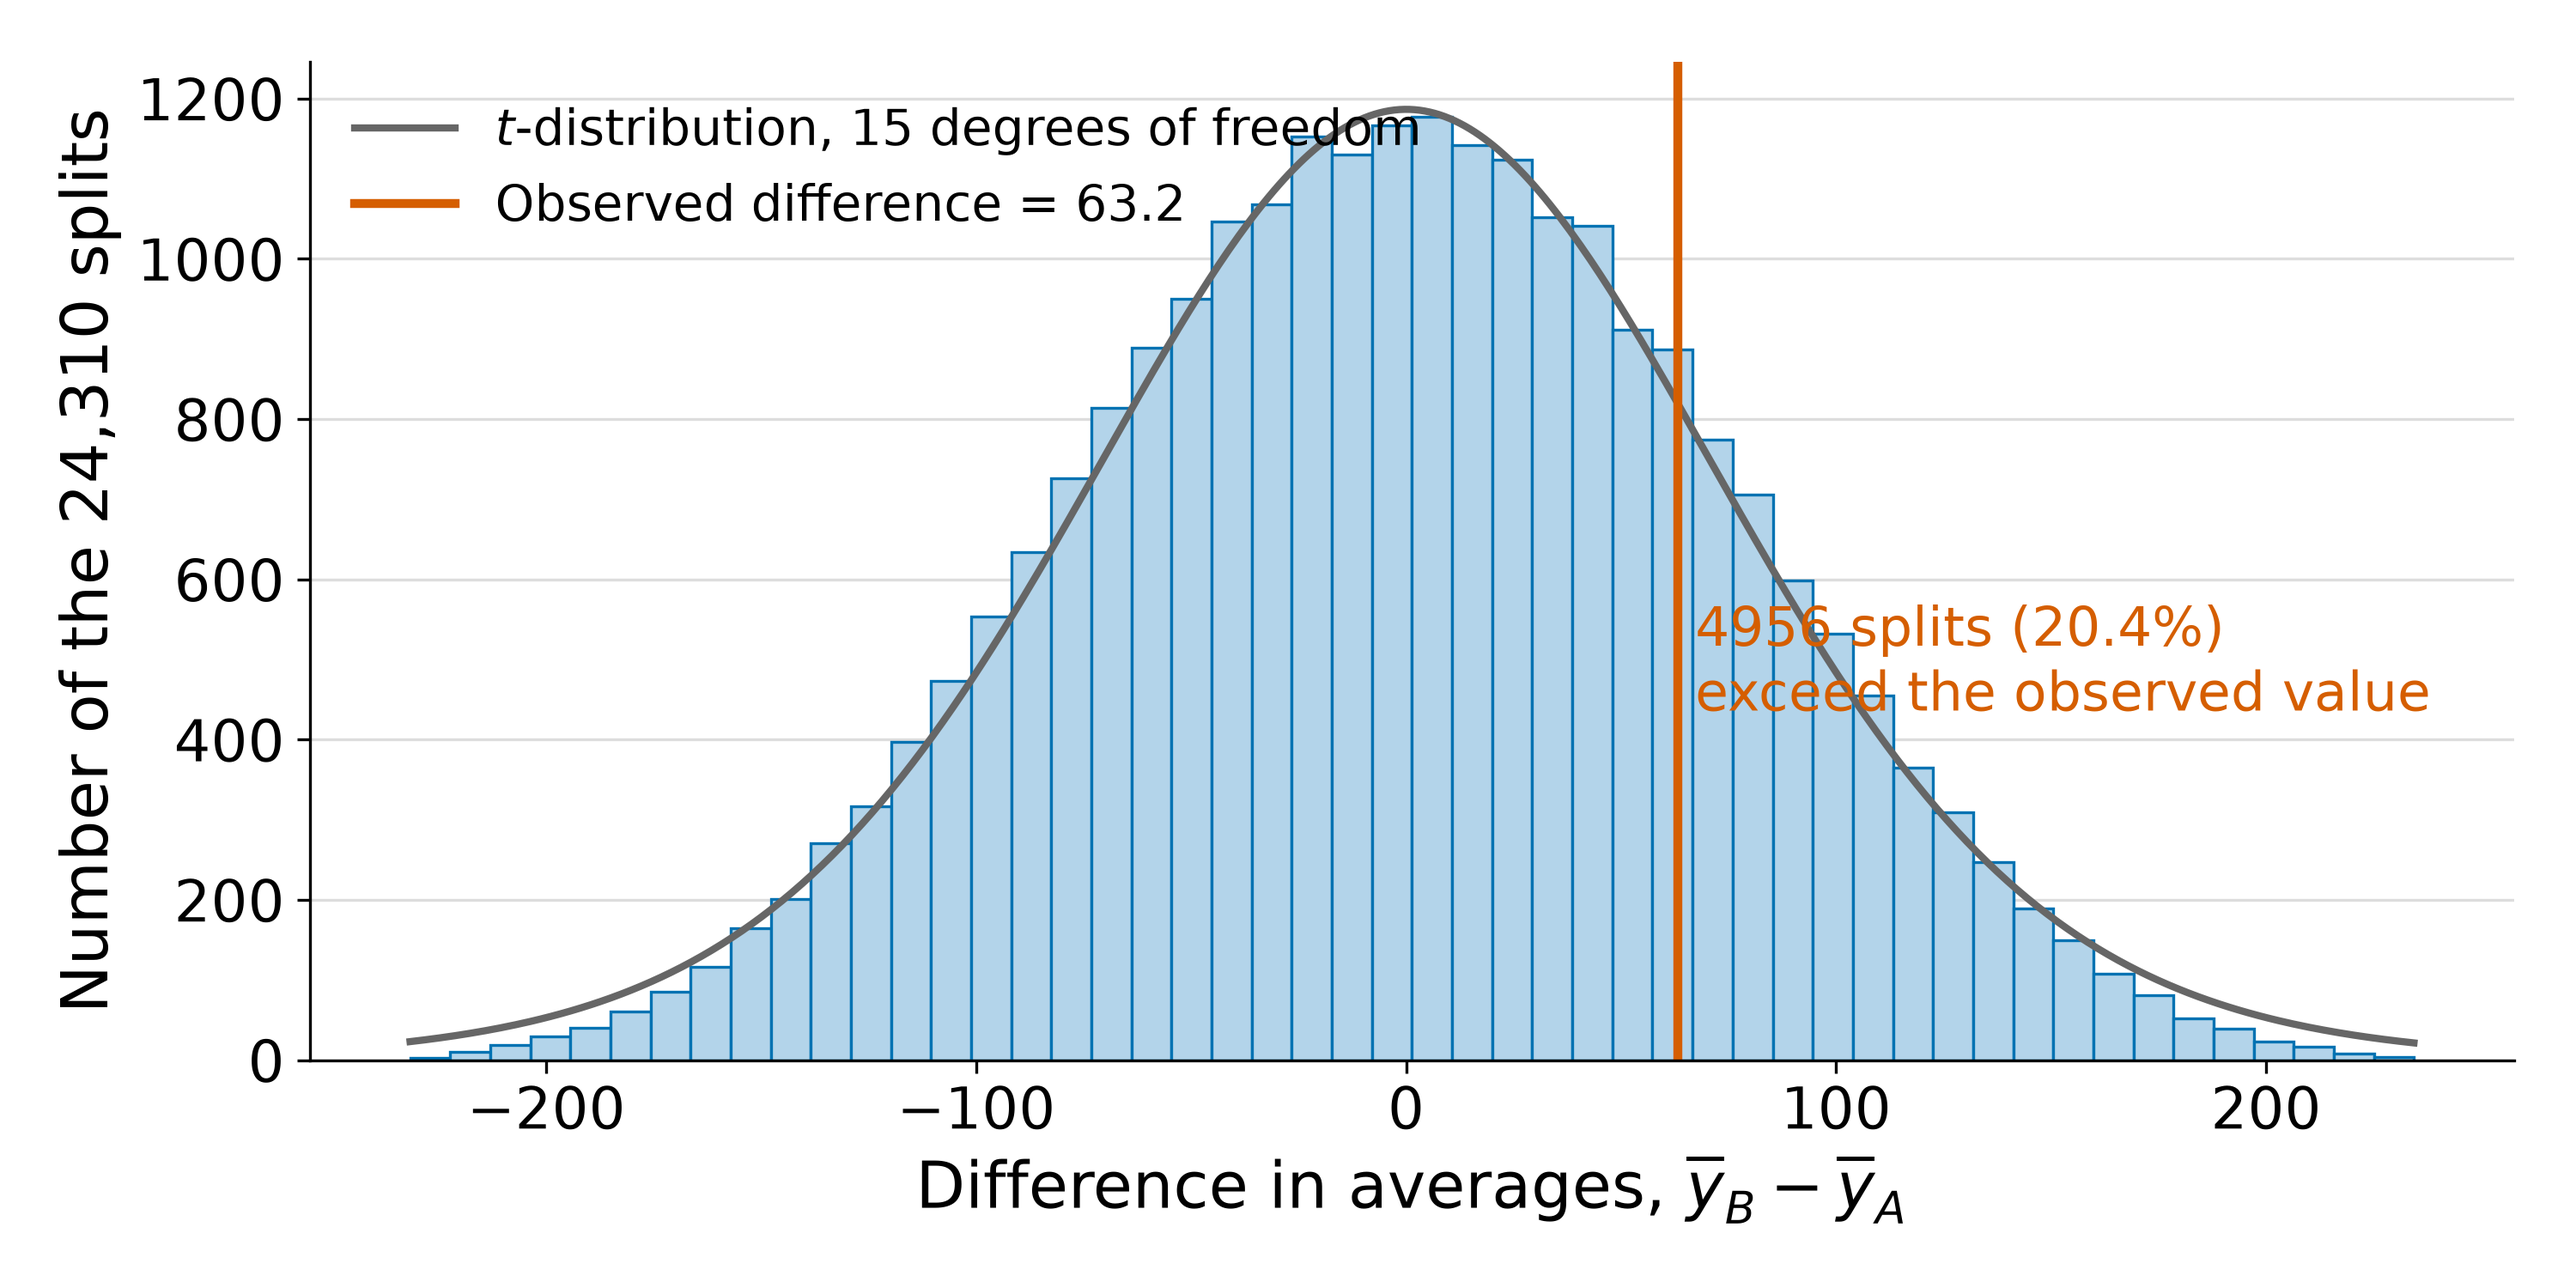
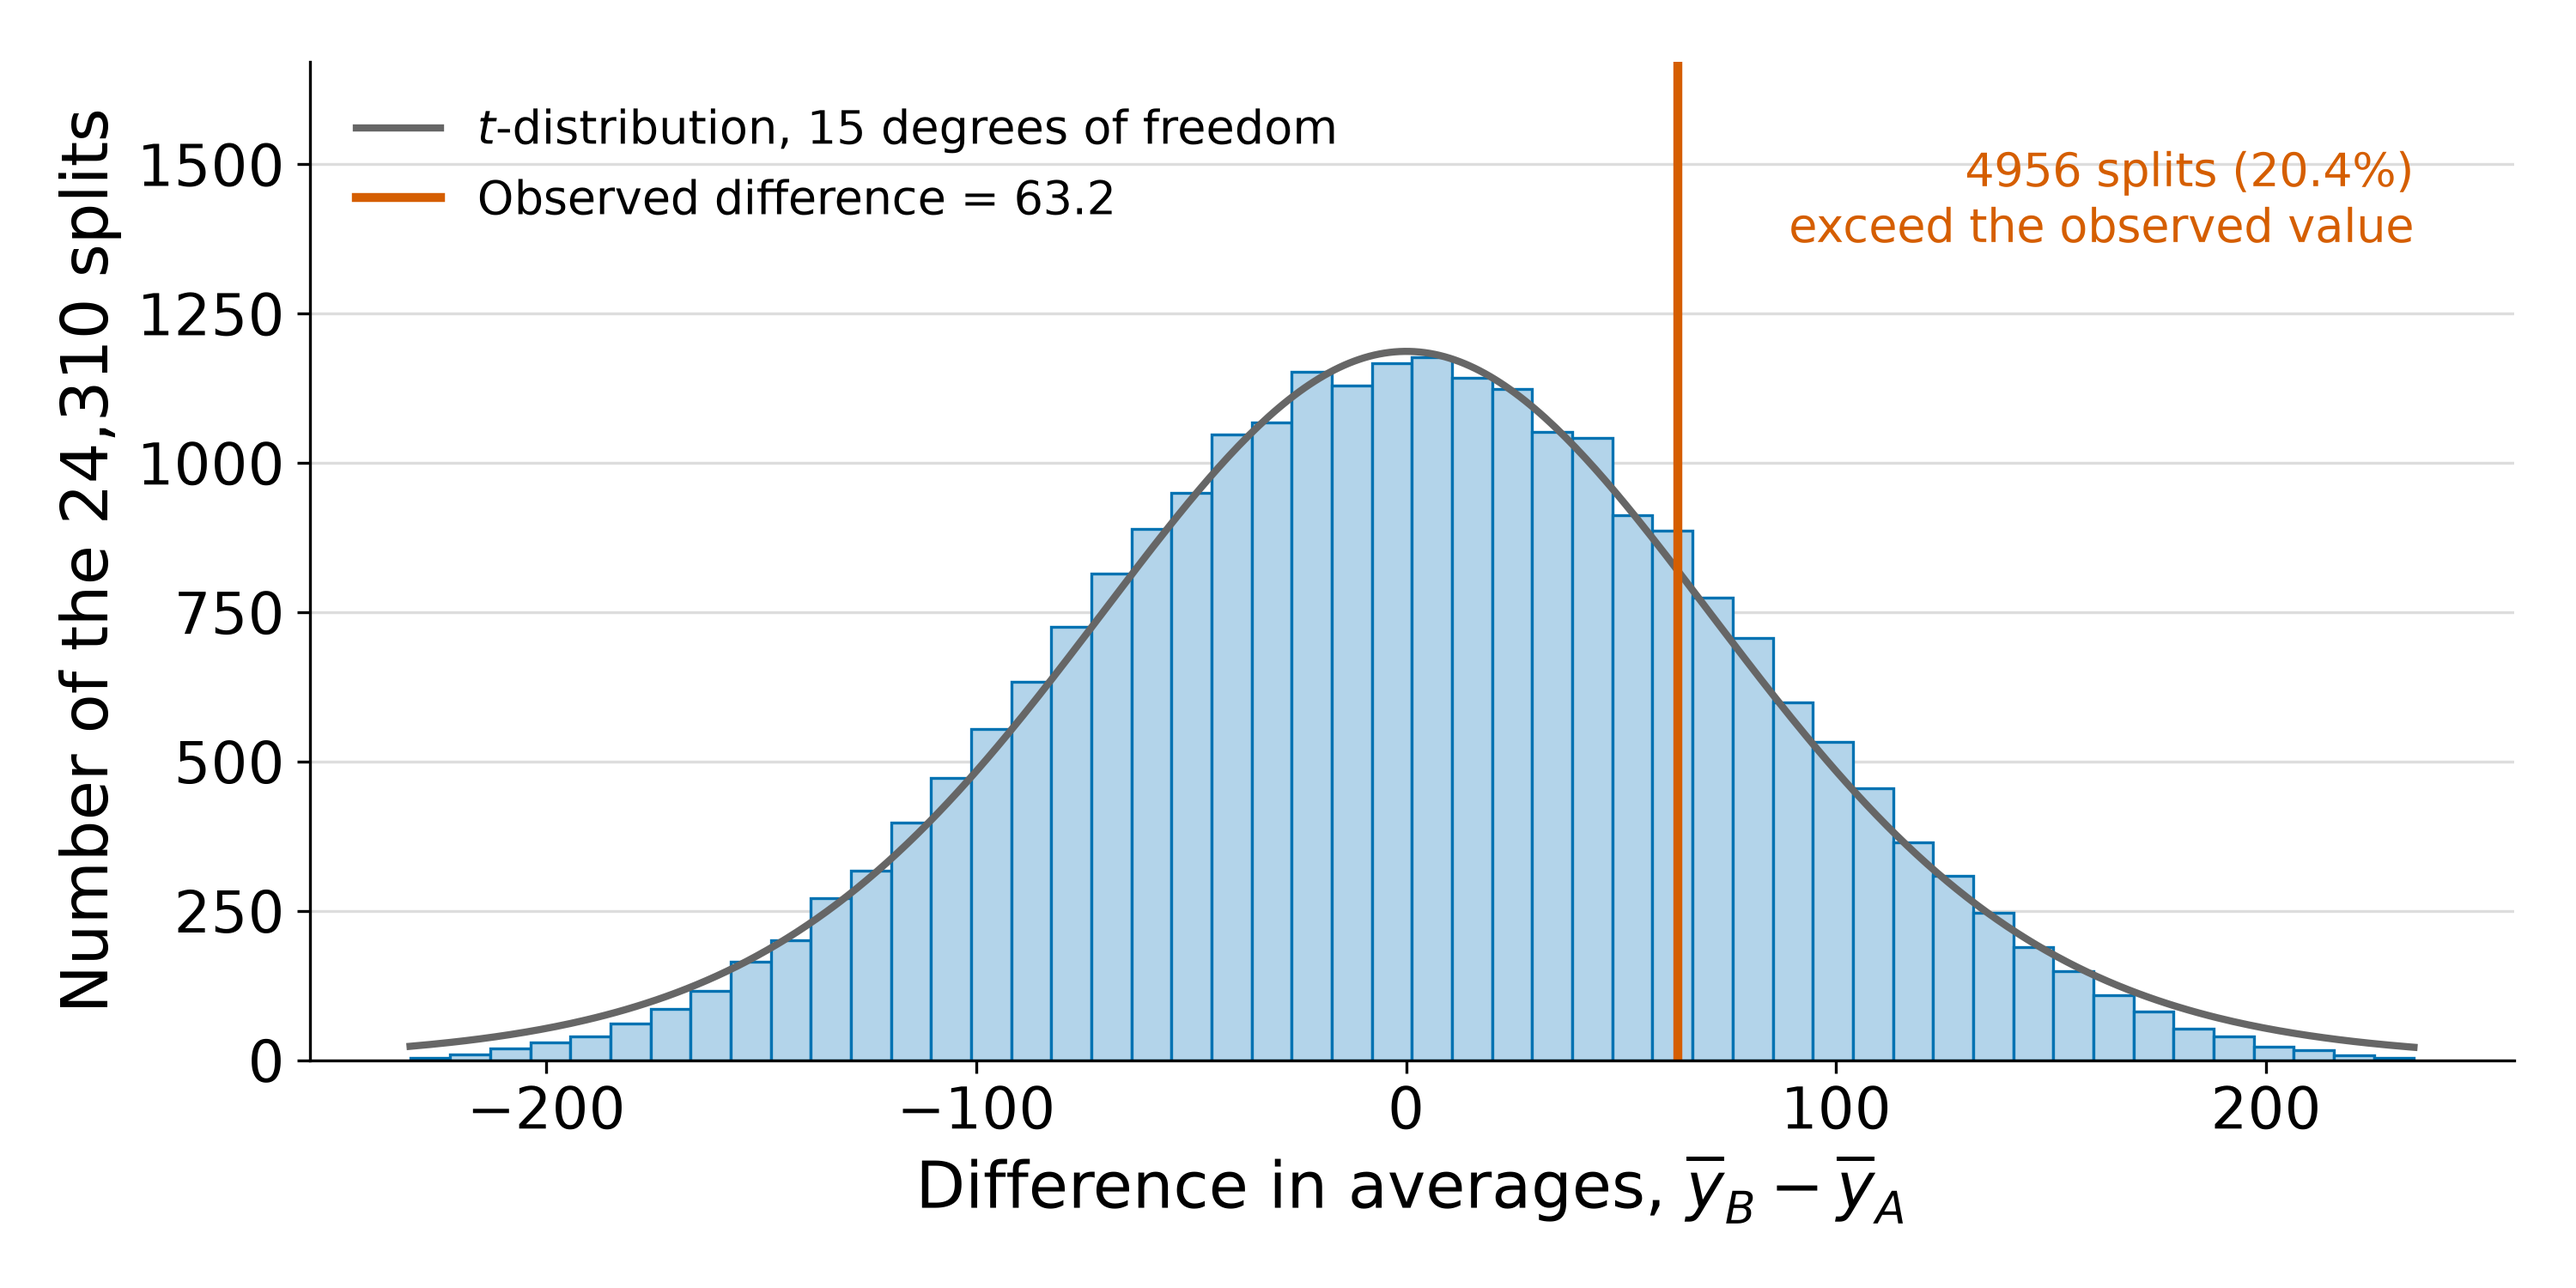
Give the randomization figure headroom for its annotations
The legend sat over the histogram bars and the t-distribution curve
near the peak, and the note about the exceeding splits sat over the
right-hand bars with its second line running to the axes edge.

The y-axis now extends to about 1.4 times the tallest bar, which opens
a clear band above the distribution. The legend goes at the top left of
that band and the note at the top right, on the side of the line it
describes, right-aligned so it stops at the axes edge. Both are set a
little smaller. Nothing about the distribution itself changed.

diff --git a/doe/randomization_reference_distribution.py b/doe/randomization_reference_distribution.py
@@ -129,10 +129,20 @@ def main(outdir: pathlib.Path) -> None:
 
     ax.set_xlabel(r"Difference in averages, $\overline{y}_B - \overline{y}_A$")
     ax.set_ylabel(f"Number of the {len(differences):,} splits")
-    ax.legend(frameon=False, loc="upper left")
+
+    # Headroom above the peak, so the legend and the note sit in clear
+    # space instead of over the bars and the curve.
+    ax.set_ylim(0, counts.max() * 1.42)
+
+    ax.legend(frameon=False, loc="upper left", fontsize=13,
+              borderaxespad=0.6, handlelength=1.8)
+    # The note belongs to the region right of the line, so it sits on
+    # that side, in the headroom, and right-aligned to the axes rather
+    # than running off the edge.
     ax.annotate(
         f"{greater} splits ({100 * greater / len(differences):.1f}%)\nexceed the observed value",
-        xy=(observed + 4, counts.max() * 0.42), color=VERMILLION, fontsize=15, va="center",
+        xy=(edges[-1], counts.max() * 1.30), color=VERMILLION, fontsize=13,
+        ha="right", va="top",
     )
     fig.tight_layout()
     fig.savefig(outdir / "single-experiment-randomization.png", dpi=DPI)
